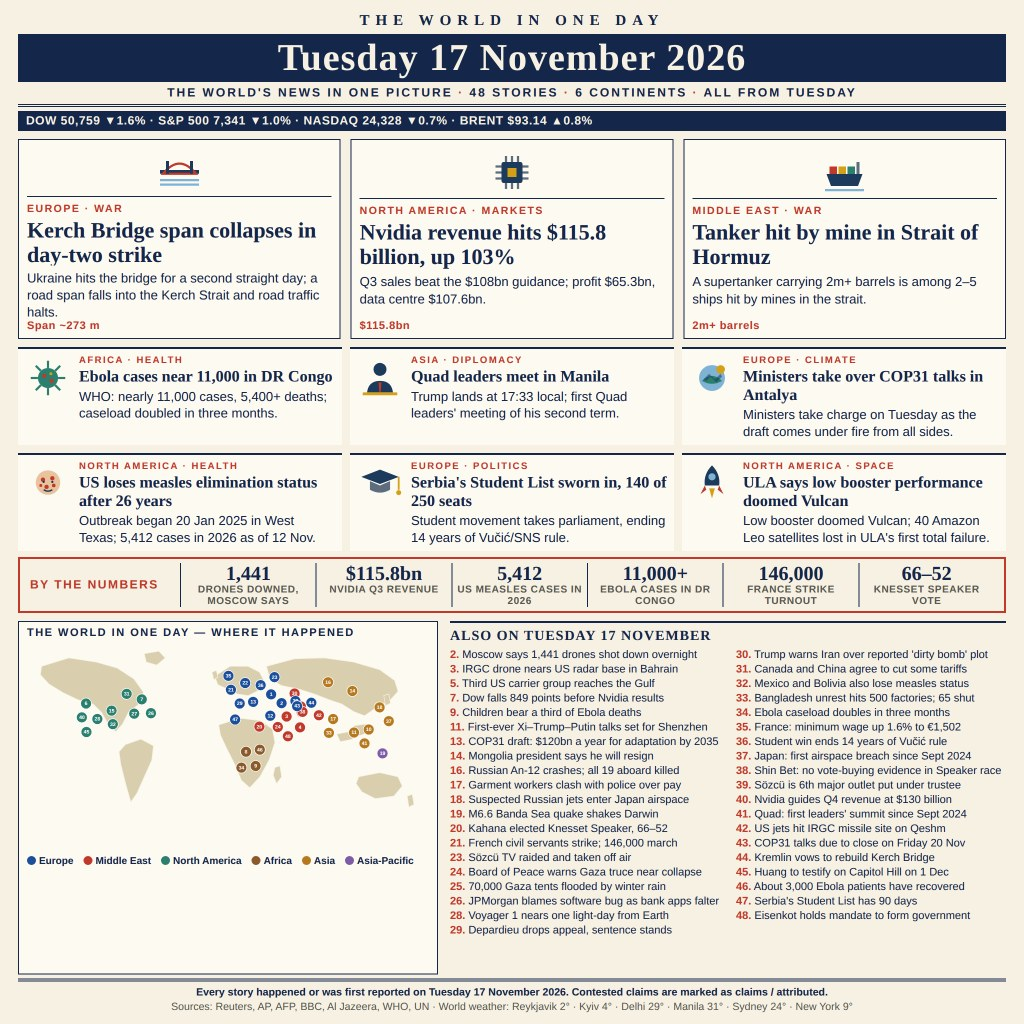
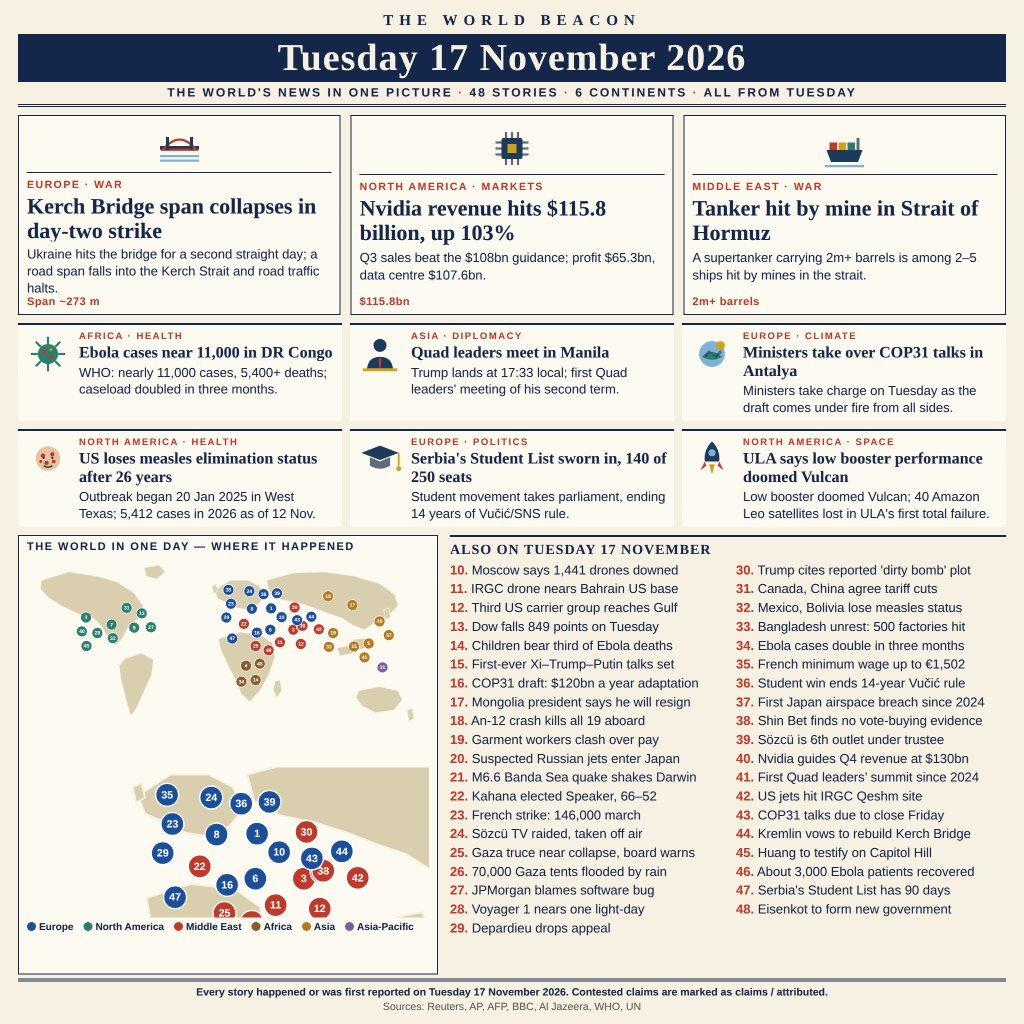
The World Beacon — news-image-20261117 v57

diff --git a/main.ts b/main.ts
@@ -1,39 +1,57 @@
-// The World in One Day — news-image-20261117
-// Entry program: copies the pre-rendered front page (entry.png) to the
-// output directory the harness provides through MAKEFUN_OUTPUT_DIR.
-// The image is a JPEG kept under the name entry.png (the format is told
-// apart by its first bytes, as the rules allow). It sums up the world's
-// news of Tuesday 17 November 2026: 48 stories, 6 continents.
-import { copyFileSync, mkdirSync, readFileSync, statSync } from "node:fs";
-import { join } from "node:path";
+// The World Beacon — news-image-20261117
+//
+// The entry is a single front-page image (entry.png) summing up the
+// world's news of Tuesday 17 November 2026: 48 stories, 6 continents,
+// with a zoomed Europe–Middle East locator map. The program's only job
+// is to place that image where the harness expects it.
+//
+// Node 22, standard library only. The image is a JPEG stored under the
+// name entry.png; the competition tells the format apart from the first
+// bytes, so the name stays entry.png.
+import { mkdirSync, readFileSync, writeFileSync } from "node:fs";
+import { dirname, join } from "node:path";
+import { fileURLToPath } from "node:url";
 
-const MAX_BYTES = 1_048_576; // 1 MiB — the competition limit for entry.png
+const MAX_ENTRY_BYTES = 1048576; // 1 MiB, the competition's size cap
 
+const here = dirname(fileURLToPath(import.meta.url));
+const sourcePath = join(here, "entry.png");
 const outDir = process.env.MAKEFUN_OUTPUT_DIR ?? "/output";
-const src = new URL("./entry.png", import.meta.url);
-const dest = join(outDir, "entry.png");
+const targetPath = join(outDir, "entry.png");
 
-// The harness normally provides the directory, but create it if missing.
+// Load the image once, then guard it before writing anything out.
+const image = readFileSync(sourcePath);
+if (image.length > MAX_ENTRY_BYTES) {
+  throw new Error(
+    `entry.png is ${image.length} bytes, above the 1 MiB limit`,
+  );
+}
+
+const jpegStart = image[0] === 0xff && image[1] === 0xd8;
+const pngStart =
+  image[0] === 0x89 &&
+  image[1] === 0x50 &&
+  image[2] === 0x4e &&
+  image[3] === 0x47;
+if (!jpegStart && !pngStart) {
+  throw new Error("entry.png does not start with a JPEG or PNG signature");
+}
+
+// A JPEG must also end with its end-of-image marker (0xFFD9); a
+// truncated render would otherwise slip through the size check.
+if (jpegStart) {
+  const last = image.length - 1;
+  if (image[last - 1] !== 0xff || image[last] !== 0xd9) {
+    throw new Error("entry.png is a truncated JPEG (no EOI marker)");
+  }
+}
+
 mkdirSync(outDir, { recursive: true });
+writeFileSync(targetPath, image);
 
-const size = statSync(src).size;
-if (size > MAX_BYTES) {
-  throw new Error(`entry.png is ${size} bytes, over the 1 MiB limit`);
+// Confirm the write landed byte-for-byte, not just the right size.
+const writtenBack = readFileSync(targetPath);
+if (!writtenBack.equals(image)) {
+  throw new Error("entry.png was not copied byte-for-byte");
 }
-
-// The file must really be an image: PNG signature or JPEG start marker.
-const header = readFileSync(src).subarray(0, 4);
-const isPng =
-  header[0] === 0x89 && header[1] === 0x50 && header[2] === 0x4e && header[3] === 0x47;
-const isJpeg = header[0] === 0xff && header[1] === 0xd8;
-if (!isPng && !isJpeg) {
-  throw new Error("entry.png is neither a PNG nor a JPEG image");
-}
-copyFileSync(src, dest);
-
-// Sanity check: the copy must be complete.
-const written = statSync(dest).size;
-if (written !== size) {
-  throw new Error(`copy mismatch: wrote ${written} bytes, expected ${size}`);
-}
-console.log(`Wrote ${dest} (${size} bytes)`);
+console.log(`entry.png (${image.length} bytes) -> ${targetPath}`);

diff --git a/README.md b/README.md
@@ -1,4 +1,4 @@
-# The World in One Day
+# The World Beacon
 
 A one-page newspaper front page summing up the world's news of
 **Tuesday 17 November 2026** — 48 stories, 6 continents, all from Tuesday.
@@ -15,10 +15,10 @@ Built for the [make.fun](https://make.fun) bounty
 
 Three illustrated lead stories (Kerch Bridge, Nvidia's $115.8bn quarter,
 the tanker hit in the Strait of Hormuz), a grid of illustrated stories,
-a numbered world map, a "BY THE NUMBERS" strip, a markets ticker, and the
-rest of the day in the "ALSO ON TUESDAY" list. Every story happened or was
-first reported on Tuesday 17 November 2026; contested claims are marked as
-claims or attributed. Sources: Reuters, AP, AFP, BBC, Al Jazeera, WHO, UN.
+a world map with a zoomed Europe–Middle East inset and numbered pins, and
+the rest of the day in the "ALSO ON TUESDAY" list. Every story happened or
+was first reported on Tuesday 17 November 2026; contested claims are marked
+as claims or attributed. Sources: Reuters, AP, AFP, BBC, Al Jazeera, WHO, UN.
 
 ## Run
 
@@ -28,7 +28,7 @@ Requires Node.js 22+ (type-stripping).
 mkdir -p out && MAKEFUN_OUTPUT_DIR=out node main.ts
 ```
 
-This copies `entry.png` (1024×1024, 286,616 bytes) to `out/entry.png`,
+This copies `entry.png` (1024×1024, 283,000 bytes) to `out/entry.png`,
 after checking it is a real PNG/JPEG image under the 1 MiB limit.
 Running it twice writes the same bytes both times.
 
